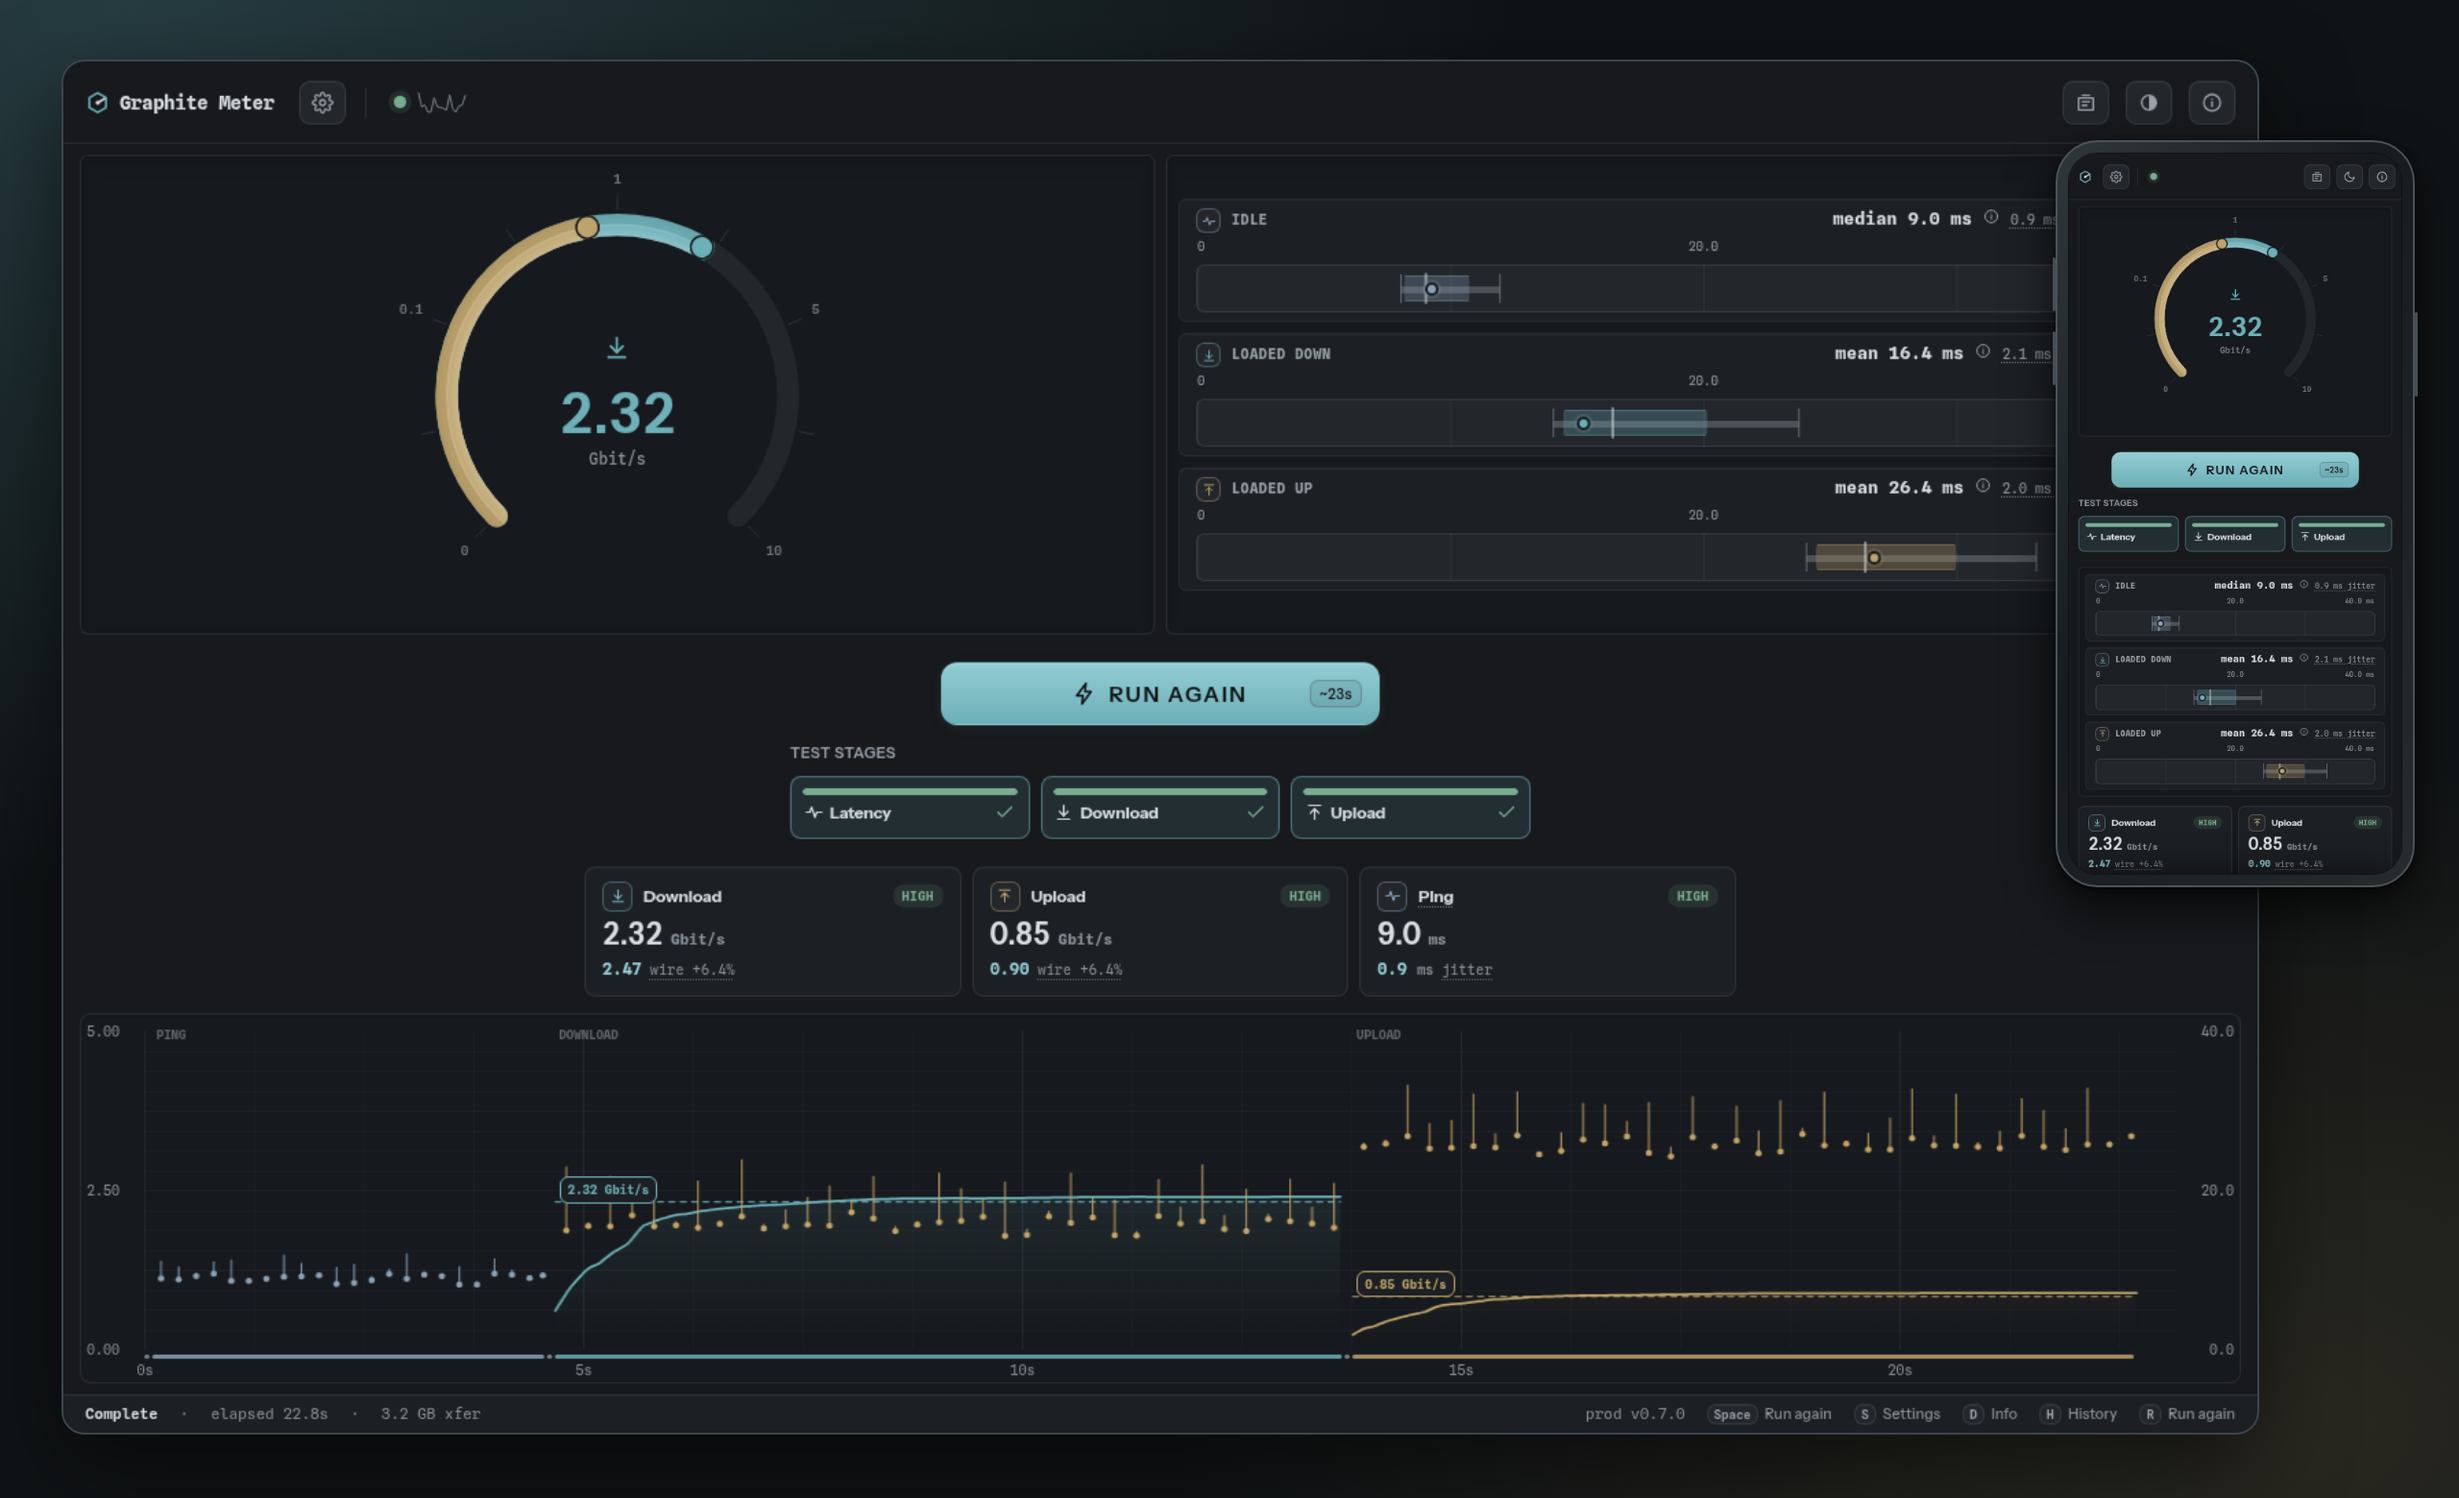
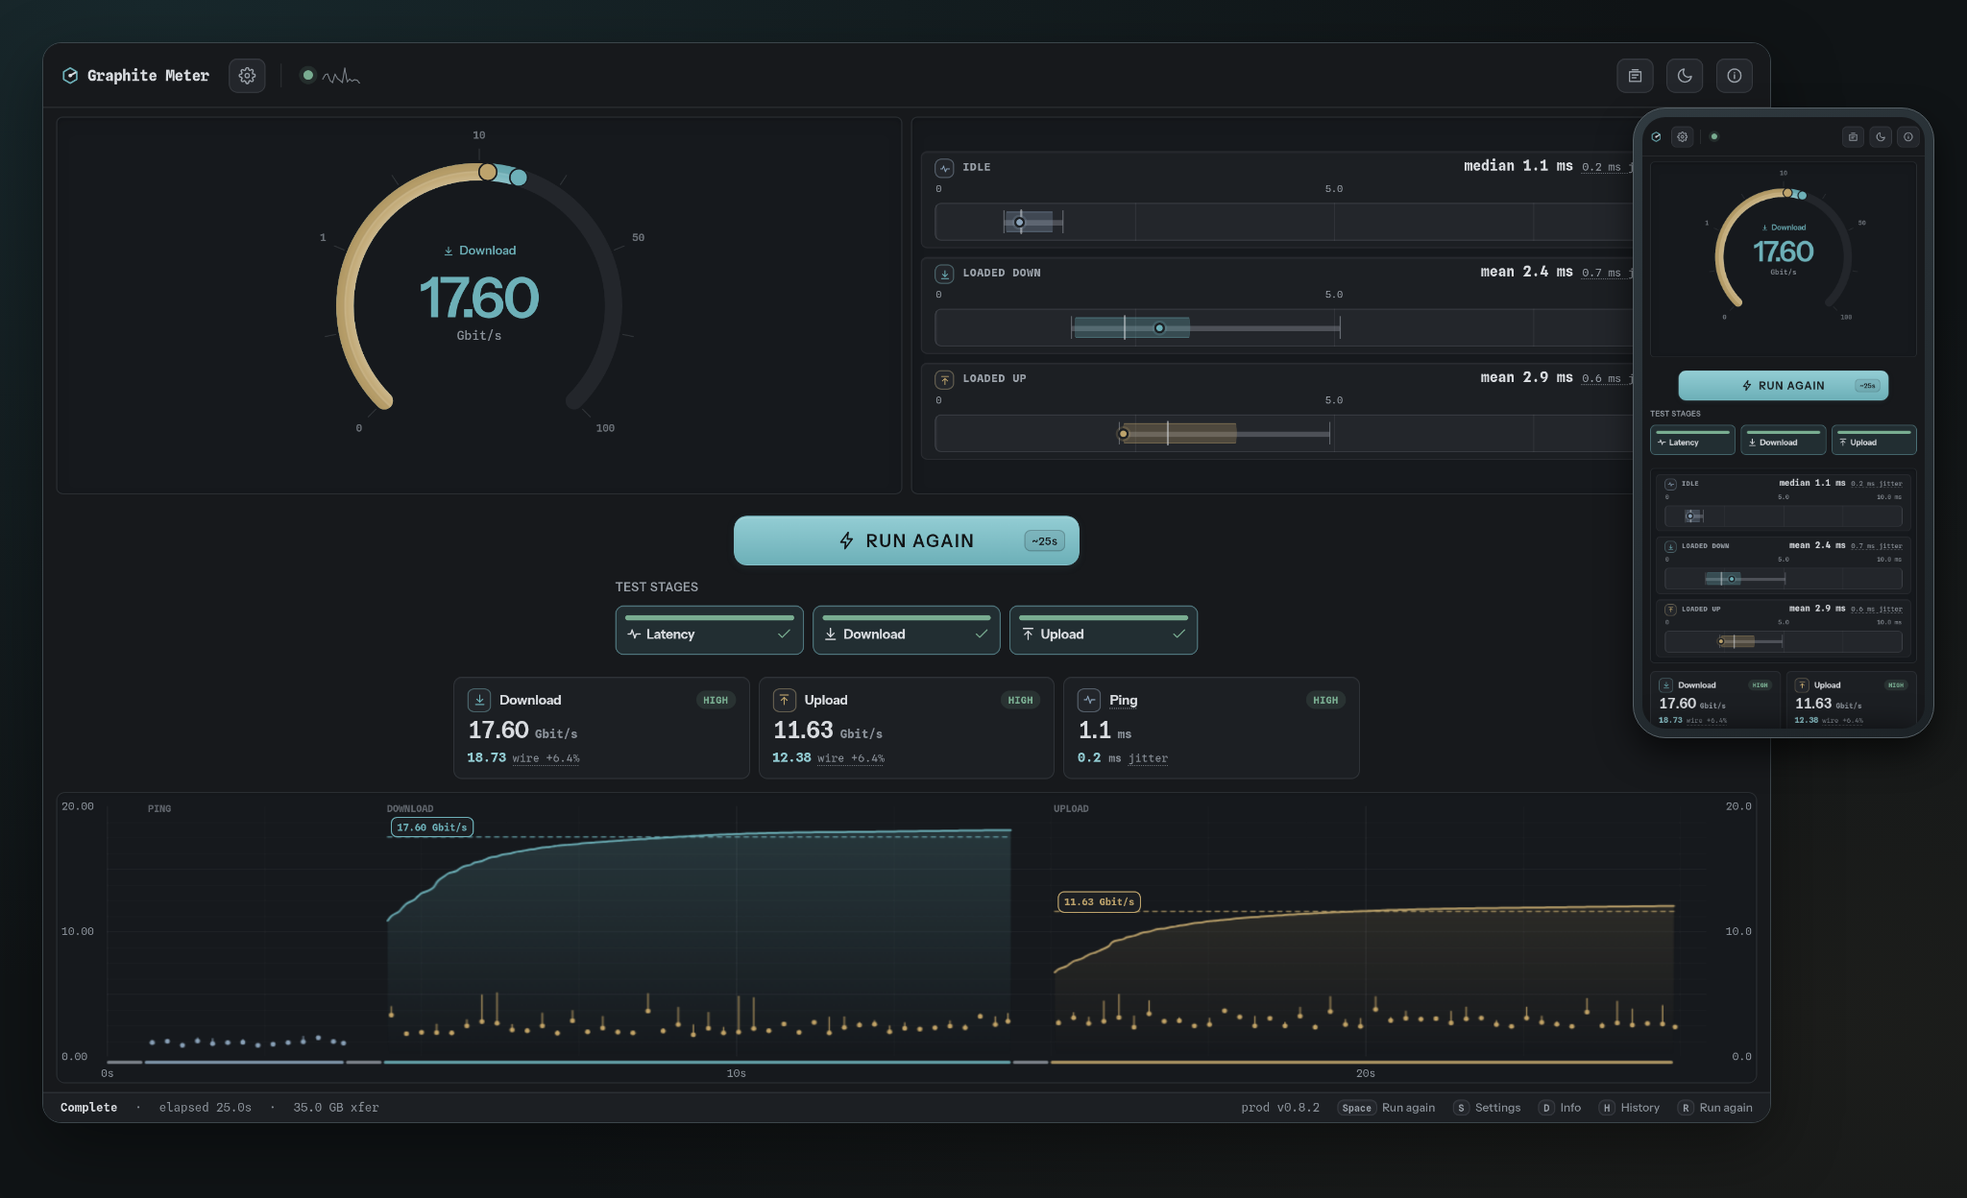
Polish completed gauge and refresh v0.8.2 screenshots (#191)

diff --git a/client/src/lib/components/GaugePanel.svelte b/client/src/lib/components/GaugePanel.svelte
@@ -458,7 +458,7 @@
               class:partial={terminalPrimary.dashed}
               aria-hidden="true"
             >
-              <span class="terminal-marker">
+              <span class="terminal-direction">
                 {#if terminalPrimary.direction === "download"}
                   {@html ICON.download}
                 {:else if terminalPrimary.direction === "upload"}
@@ -466,6 +466,11 @@
                 {:else}
                   {@html ICON.bidirectional}
                 {/if}
+                {terminalPrimary.direction === "download"
+                  ? "Download"
+                  : terminalPrimary.direction === "upload"
+                    ? "Upload"
+                    : "Bidirectional"}
               </span>
               <span class="terminal-number">{terminalPrimary.value}</span>
               <span class="terminal-unit">{gaugeUnit}</span>
@@ -763,9 +768,10 @@
   }
   .terminal-readout {
     --result-accent: var(--text-soft);
+    position: relative;
     display: grid;
     justify-items: center;
-    gap: clamp(var(--space-2), 2.5cqmin, var(--space-3));
+    gap: var(--space-1);
     max-width: 72%;
     color: var(--result-accent);
   }
@@ -778,24 +784,30 @@
   .terminal-readout.bidirectional {
     --result-accent: var(--phase-bidirectional);
   }
-  .terminal-marker {
-    display: grid;
-    place-items: center;
-    width: clamp(32px, 12cqmin, 42px);
-    height: clamp(32px, 12cqmin, 42px);
+  .terminal-direction {
+    position: absolute;
+    bottom: calc(100% + clamp(10px, 4cqmin, 16px));
+    display: flex;
+    align-items: center;
+    gap: 5px;
+    font-size: clamp(11px, 3.6cqmin, 13px);
+    font-weight: 600;
     line-height: 1;
+    white-space: nowrap;
   }
-  .terminal-marker :global(svg) {
-    width: 58%;
-    height: 58%;
+  .terminal-direction :global(svg) {
+    width: 1em;
+    height: 1em;
   }
   .terminal-number {
     font-family: var(--font-display);
-    font-variant-numeric: tabular-nums;
-    font-feature-settings: "tnum" 1;
-    font-size: clamp(28px, 14cqmin, 52px);
+    font-variant-numeric: lining-nums proportional-nums;
+    font-feature-settings:
+      "lnum" 1,
+      "pnum" 1;
+    font-size: clamp(28px, 17cqmin, 64px);
     font-weight: 600;
-    letter-spacing: var(--track-tight);
+    letter-spacing: -0.04em;
     line-height: 1;
     white-space: nowrap;
   }

diff --git a/client/browser/gauge-geometry.test.ts b/client/browser/gauge-geometry.test.ts
@@ -147,16 +147,29 @@ test("live and completed instruments keep labels and readouts contained", async 
     .evaluate((readout) => {
       const number = readout.querySelector(".terminal-number")!;
       const unit = readout.querySelector(".terminal-unit")!;
+      const direction = readout.querySelector(".terminal-direction")!;
       const numberBox = number.getBoundingClientRect();
       const unitBox = unit.getBoundingClientRect();
+      const directionBox = direction.getBoundingClientRect();
       return {
         unitCenter: unitBox.left + unitBox.width / 2,
         numberCenter: numberBox.left + numberBox.width / 2,
+        directionCenter: directionBox.left + directionBox.width / 2,
+        directionBottom: directionBox.bottom,
+        numberTop: numberBox.top,
       };
     });
   expect(
     Math.abs(terminalAlignment.unitCenter - terminalAlignment.numberCenter),
   ).toBeLessThanOrEqual(1);
+  expect(
+    Math.abs(
+      terminalAlignment.directionCenter - terminalAlignment.numberCenter,
+    ),
+  ).toBeLessThanOrEqual(1);
+  expect(terminalAlignment.directionBottom).toBeLessThan(
+    terminalAlignment.numberTop,
+  );
   await expectStageFits(page);
 });
 

diff --git a/docs/SCREENSHOTS.md b/docs/SCREENSHOTS.md
@@ -2,7 +2,7 @@
 
 [Project overview](../README.md) · [Quick deployment](DEPLOYMENT.md#fast-local-deployment) · [What the numbers mean](MEASUREMENTS.md)
 
-The **v0.7.0** browser client, from the completed test to saved results. These captures use a
+The **v0.8.2** browser client, from the completed test to saved results. These captures use a
 simulated deployment and illustrative data throughout; they are not performance benchmarks.
 
 ## The completed test
@@ -10,7 +10,7 @@ simulated deployment and illustrative data throughout; they are not performance 
 Throughput and responsiveness share the screen. The timeline retains the transfer ramp-up and
 variation, while separate latency profiles show idle, download, and upload populations.
 
-<img src="assets/desktop.png" alt="v0.7.0 completed desktop test with cyan download and gold upload curves, three latency distributions, and throughput summaries" width="1080">
+<img src="assets/desktop.png" alt="v0.8.2 completed desktop test with cyan download and gold upload curves, three latency distributions, and throughput summaries" width="1080">
 
 ## Settings, beside your results
 
@@ -24,7 +24,7 @@ visible while you adjust the test; on smaller screens, the same settings open as
 Endpoint information identifies the server and selected paths. Protocol evidence distinguishes
 what the browser observed from what reached the server, which is useful when a proxy sits between them.
 
-<img src="assets/endpoint.png" alt="Endpoint information showing the simulated Frankfurt deployment and independent throughput and latency path evidence" width="1080">
+<img src="assets/endpoint.png" alt="Endpoint information showing the simulated 40 GbE lab deployment and independent throughput and latency path evidence" width="1080">
 
 ## History on your device
 
@@ -33,8 +33,7 @@ meter. The selected result keeps throughput, latency distributions, and probe ev
 
 <img src="assets/history.png" alt="Device-local history with illustrative saved runs and a selected result's measurement details" width="1080">
 
-History is optional and limited to 2,000 summaries per browser. See [the 0.7 upgrade notes](DEPLOYMENT.md#upgrading-to-07)
-for older history formats.
+History is optional and limited to 2,000 summaries per browser.
 
 ## Light and dark, desktop and phone
 
@@ -50,25 +49,28 @@ and results form a vertical reading order; additional content remains available 
 ## Native terminal client
 
 The Go TUI provides setup controls, live telemetry, and a completed report with receiver throughput,
-latency percentiles, probe timeouts, and paired server timing.
+latency percentiles, and probe timeouts.
 
-<img src="assets/tui.png" alt="v0.7.0 native terminal client with simulated download, upload, and latency results" width="1080">
+<img src="assets/tui.png" alt="v0.8.2 native terminal client with simulated download, upload, and latency results" width="1080">
 
 This capture renders the current native view's ANSI output with illustrative results and the
-client version set to `0.7.0`. It uses the shipped layout and colors; the terminal frame is simulated.
+client version set to `0.8.2`. It uses the shipped layout and colors; the terminal frame is simulated.
 [Download and run the native client](../README.md#native-terminal-client).
 
 ## Capture details
 
-- Production UI built with `VERSION=0.7.0`, `GM_CLIENT_BUILD_PROFILE=prod`, and the explicitly
-  enabled dummy backend. The application footer reads `prod v0.7.0`.
-- Source UI revision: `ce6ad79`. Chromium engine: `152.0.7977.82`.
-- Simulated server: **Graphite Meter demo**, **Frankfurt · simulated**, using a reserved example
+- Production UI built with `VERSION=0.8.2`, `GM_CLIENT_BUILD_PROFILE=prod`, and the explicitly
+  enabled dummy backend. The application footer reads `prod v0.8.2`.
+- Source UI: v0.8.2 result-gauge refresh. Chromium engine: `152.0.7977.82`.
+- Simulated server: **Graphite Meter demo**, **40 GbE lab · simulated**, using a reserved example
   hostname and documentation IP address.
 - Three stages only: idle latency, download, and upload. Synthetic receiver observations include
-  a transfer ramp and modest variation; latency has distinct, slightly skewed stage populations.
+  roughly half of transfer ramp-up remaining after a 600 ms warmup and small correlated changes;
+  seeded randomized latency has distinct,
+  skewed idle and loaded populations with occasional longer replies.
   The normal runner computes the displayed results. History includes illustrative saved summaries.
-- Desktop captures are 1600 × 1000; the phone viewport is 430 × 932. The README hero composes
+- Desktop viewports are 1600 × 1000; the phone viewport is 430 × 932. Both are captured
+  at double pixel density. The README hero composes
   these captures with a simulated device frame. The UI itself is not rearranged or retouched.
 
 The ordinary production build excludes the dummy backend. To run your own measurements, follow

diff --git a/README.md b/README.md
@@ -13,7 +13,7 @@ One Go server, a responsive web interface, and a native terminal client.
 
 <img src="docs/assets/hero.png" alt="Graphite Meter completed results on desktop with an overlapping phone companion" width="1080">
 
-<sub>v0.7.0 · simulated measurements · <a href="docs/SCREENSHOTS.md">screenshot gallery</a></sub>
+<sub>v0.8.2 · simulated measurements · <a href="docs/SCREENSHOTS.md">screenshot gallery</a></sub>
 
 </div>
 
@@ -84,9 +84,9 @@ See the [gallery](docs/SCREENSHOTS.md) for settings, endpoint details, history, 
 with server selection, stage and timing controls, independent connection paths, stream settings,
 and live throughput and latency results. It lets you test without browser runtime constraints.
 
-<img src="docs/assets/tui.png" alt="Graphite Meter v0.7.0 native terminal client showing completed download, upload, and latency results from a simulated deployment" width="1080">
+<img src="docs/assets/tui.png" alt="Graphite Meter v0.8.2 native terminal client showing completed download, upload, and latency results from a simulated deployment" width="1080">
 
-<p align="center"><sub>v0.7.0 · simulated measurements</sub></p>
+<p align="center"><sub>v0.8.2 · simulated measurements</sub></p>
 
 Download and extract the matching client archive from [Releases](https://github.com/zR-JB/graphite-meter/releases),
 then run:
